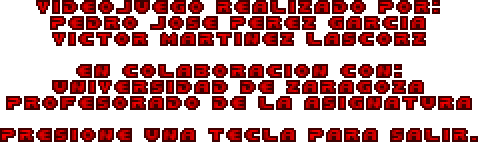
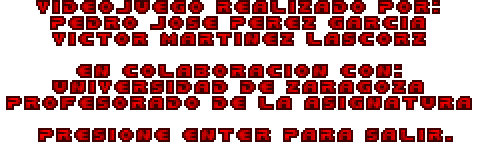
Fix en creditos y salir confirmacion

Changed region(s): [[0.0, 0.8889, 1.0, 1.0]]

diff --git a/DOOM/MainMenu/menu.cpp b/DOOM/MainMenu/menu.cpp
@@ -57,6 +57,12 @@ Menu::Menu(float width, float height, DoomEngine* eng) : m_pDoomEngine(eng)
 	creditosSprite.scale((float)SCREENWIDTH * 0.75f / creditos.getSize().x, (float)SCREENHEIGHT * 0.6f / creditos.getSize().y);
 	creditosSprite.setPosition((SCREENWIDTH / 2.0f) - creditos.getSize().x * creditosSprite.getScale().x / 2.0f, SCREENHEIGHT * 2.0f / 10.0f);
 
+	//Carga el panel de ConfirmarSalir
+	confirmarSalirTexture.loadFromFile("../../../../assets/MainMenu/ConfirmarSalir.png");
+	confirmarSalirSprite.setTexture(confirmarSalirTexture);
+	confirmarSalirSprite.scale((float)SCREENWIDTH * 0.75f / confirmarSalirTexture.getSize().x, (float)SCREENHEIGHT * 0.48f / confirmarSalirTexture.getSize().y);
+	confirmarSalirSprite.setPosition((SCREENWIDTH / 2.0f) - confirmarSalirTexture.getSize().x * confirmarSalirSprite.getScale().x / 2.0f, SCREENHEIGHT / 2.5f);
+
 
 	//Cargar toda la parte de opciones:
 	actualSound = 100;
@@ -159,7 +165,45 @@ void Menu::creditPage(sf::RenderWindow* window) {
 
 }
 
-//double Menu::options(sf::RenderWindow* window, sf::Music introMusic, sf::Sound shot) {		//actualSound
+bool Menu::confirmarSalir(sf::RenderWindow* window) {
+	sf::Event event;
+	bool skipIntro = false;
+	std::cout << "Entra en confirmacion" << std::endl;
+	while (window->pollEvent(event) || !skipIntro) {
+		switch (event.type) {
+		case sf::Event::KeyPressed:
+			if (event.key.code == sf::Keyboard::Enter)
+			{
+				std::cout << "Return porque false y no sale" << std::endl;
+				skipIntro = true;
+				return true;
+			}
+			else {
+				return false;
+			}
+			break;
+
+		case sf::Event::Closed:
+			m_pDoomEngine->Quit();
+			window->close();
+			return true;
+			break;
+
+		default:
+			break;
+
+		}
+		window->clear(sf::Color::Black);
+
+		window->draw(backgroundSprite);
+		window->draw(doomSprite);
+		window->draw(confirmarSalirSprite);
+
+		window->display();
+	}
+	return false;
+}
+
 double Menu::options(sf::RenderWindow* window, sf::Music* introMusic, sf::Sound* shot) {
 	sf::Event event;
 	bool salir = false;

diff --git a/DOOM/MainMenu/menu.h b/DOOM/MainMenu/menu.h
@@ -23,6 +23,7 @@ public:
 	void MoveDown();
 	void drawIntro(sf::RenderWindow* window);
 	void creditPage(sf::RenderWindow* window);
+	bool confirmarSalir(sf::RenderWindow* window);
 	//double options(sf::RenderWindow* window, sf::Music introMusic, sf::Sound shot);
 	double options(sf::RenderWindow* window, sf::Music* introMusic, sf::Sound* shot);
 	int GetPressedItem() { return selectedItemIndex; }
@@ -45,6 +46,8 @@ private:
 	sf::Sprite creditosSprite;
 	sf::Texture optionsTexture;
 	sf::Sprite optionsSprite;
+	sf::Texture confirmarSalirTexture;
+	sf::Sprite confirmarSalirSprite;
 	sf::Texture soundLevelTexture;
 	sf::Sprite soundLevelSprite[4];
 	float m_width;

diff --git a/DOOM/Game/Game.cpp b/DOOM/Game/Game.cpp
@@ -316,8 +316,11 @@ int Game::mainMenu()
                         break;
 
                     case 3:     //Sale del juego
-                        m_pDoomEngine->Quit();
-                        m_pWindow->close();
+                        std::cout << "Le ha dado a salir Pog" << std::endl;
+                        if (menu.confirmarSalir(m_pWindow)) {
+                            m_pDoomEngine->Quit();
+                            m_pWindow->close();
+                        }
                         break;
 
                     default:    //Ha dado a una quinta opcion (?)
